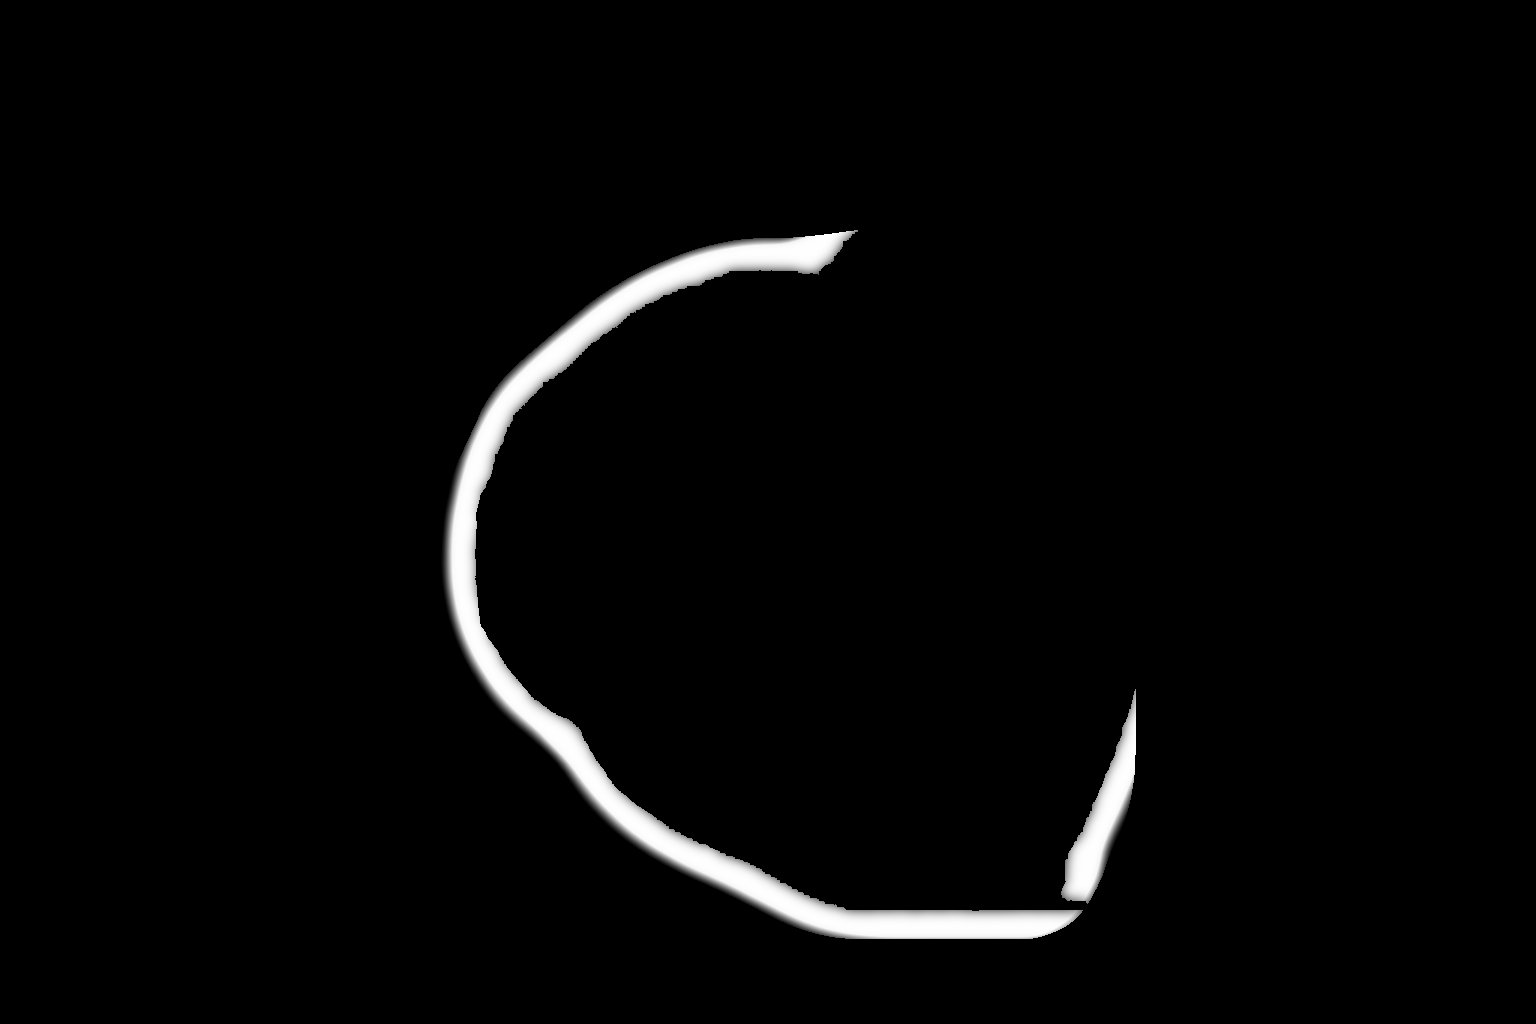
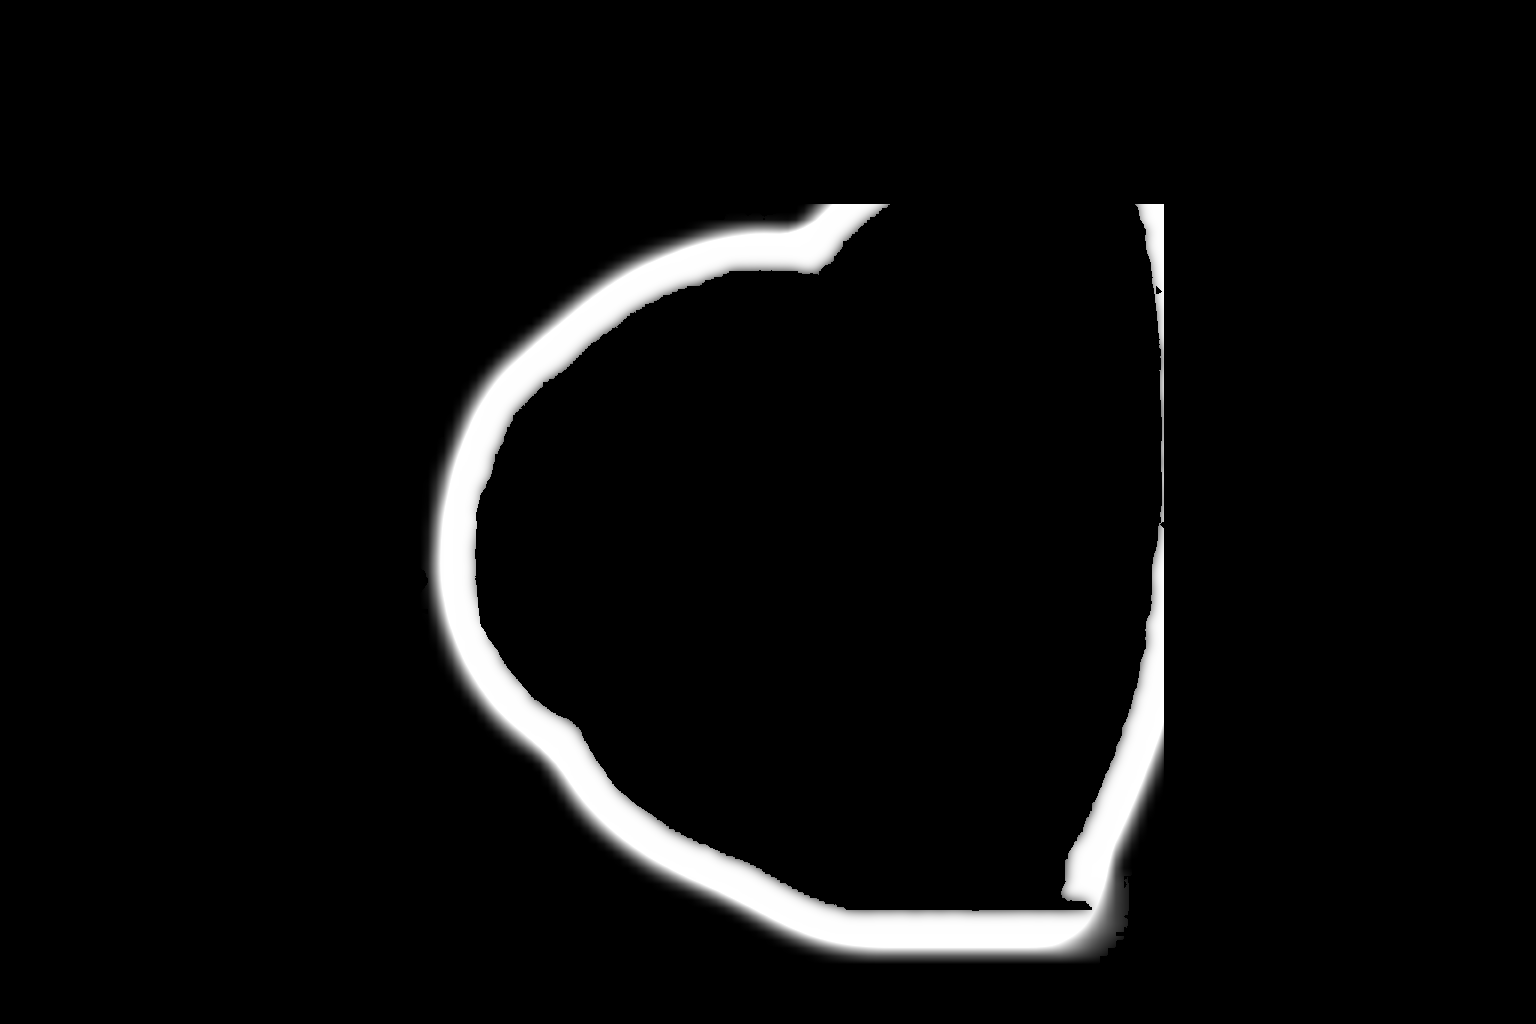
Retain low-coverage outer veil taper

Changed region(s): [[0.25, 0.1875, 0.7812, 0.9375], [0.7188, 0.1875, 0.7812, 0.3438]]

diff --git a/src/focusstack/veil_layers.py b/src/focusstack/veil_layers.py
@@ -2896,7 +2896,7 @@ def _fringe_mask(
     near_visibility = np.minimum.reduce(coverages)
     rear_visibility = 1.0 - np.maximum.reduce(coverages)
     support = (
-        (near_visibility > VISIBILITY_COVERAGE_FLOOR)
+        (near_visibility > 0.0)
         & (rear_visibility > VISIBILITY_COVERAGE_FLOOR)
         & (alpha < 0.5)
     )
@@ -2907,8 +2907,7 @@ def _fringe_mask(
         borderType=cv2.BORDER_REFLECT,
     )
     near_weight = np.clip(
-        (near_visibility - VISIBILITY_COVERAGE_FLOOR)
-        / VISIBILITY_COVERAGE_RAMP,
+        near_visibility / VISIBILITY_COVERAGE_RAMP,
         0.0,
         1.0,
     )
